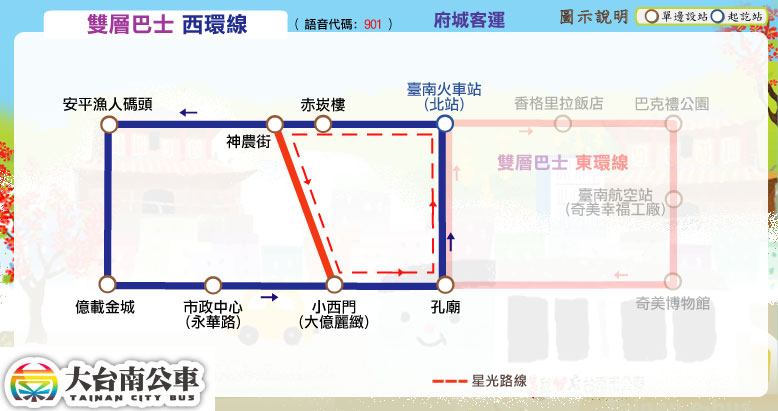
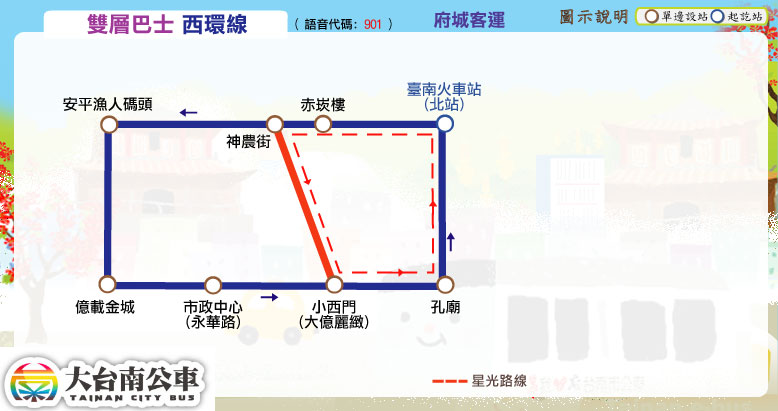
移除路線：雙層巴士東環線 (2019/11/01起停駛)

Changed region(s): [[0.5861, 0.2336, 0.9254, 0.7591], [0.5553, 0.3212, 0.617, 0.6715]]

diff --git a/index.html b/index.html
@@ -17,7 +17,7 @@ html, body {
 }
 </style>
 <script type="text/javascript">
-route_arr = ["0左/0右","1","2","3","5","6","7","9","10","11","14","15","18","19","20","21","33 (關子嶺故宮南院線)","61 (西濱快線)","70 (中華環線)","77","77-1","77-2","88 (府城巡迴線)","99 (安平台江線)","166","綠幹線 (green)","綠1 (g1)","綠2 (g2)","綠3 (g3)","綠4 (g4)","綠5 (g5)","綠6 (g6)","綠7 (g7)","綠10 (g10)","綠11 (g11)","綠12 (g12)","綠13 (g13)","綠14 (g14)","綠15 (g15)","綠16 (g16)","綠17 (g17)","綠20 (g20)","綠20-1 (g20-1)","綠21 (g21)","綠22 (g22)","綠23 (g23)","綠24 (g24)","綠25 (g25)","綠26 (g26)","綠27 (g27)","藍幹線 (blue)","藍1 (b1)","藍2 (b2)","藍3 (b3)","藍10 (b10)","藍11 (b11)","藍12 (b12)","藍13 (b13)","藍20 (b20)","藍21 (b21)","藍22 (b22)","藍23 (b23)","藍24 (b24)","藍25 (b25)","紅幹線 (red)","紅1 (r1)","紅2 (r2)","紅3 (r3)","紅3-1 (r3-1)","紅4 (r4)","紅10 (r10)","紅11 (r11)","紅12 (r12)","紅13 (r13)","紅14 (r14)","橘幹線 (orange)","橘1 (o1)","橘2 (o2)","橘3 (o3)","橘4 (o4)","橘4-1 (o4-1)","橘5 (o5)","橘10 (o10)","橘10-1 (o10-1)","橘11 (o11)","橘11-1 (o11-1)","橘12 (o12)","橘20 (o20)","棕幹線 (brown)","棕1 (br1)","棕2 (br2)","棕3 (br3)","棕3-1 (br3-1)","棕10 (br10)","棕11 (br11)","黃幹線 (yellow)","黃1 (y1)","黃2 (y2)","黃3 (y3)","黃4 (y4)","黃5 (y5)","黃6 (y6)","黃6-1 (y6-1)","黃7 (y7)","黃9 (y9)","黃10 (y10)","黃10-1 (y10-1)","黃11 (y11)","黃11-1 (y11-1)","黃11-2 (y11-2)","黃12 (y12)","黃12-1 (y12-1)","黃12-2 (y12-2)","黃13 (y13)","黃14 (y14)","黃14-1 (y14-1)","黃15 (y15)","黃16 (y16)","黃16-1 (y16-1)","黃20 (y20)","高鐵快捷H31(市府線)","高鐵快捷H62(奇美線)","239","8035","8041C","8042 (沙旗美月世界快線)","8046A","8046B (高南雙城快線)","8050","7207","7208","7210","7214","7229","7407","7408","7410","南科紅線(北環東線)","南科橘線(北環西線)","南科藍線(南環線)","南科綠線(高鐵線)","南科善化線","南科假日線","雙層巴士東環線","雙層巴士西環線","俗女養成記接駁車"];
+route_arr = ["0左/0右","1","2","3","5","6","7","9","10","11","14","15","18","19","20","21","33 (關子嶺故宮南院線)","61 (西濱快線)","70 (中華環線)","77","77-1","77-2","88 (府城巡迴線)","99 (安平台江線)","166","綠幹線 (green)","綠1 (g1)","綠2 (g2)","綠3 (g3)","綠4 (g4)","綠5 (g5)","綠6 (g6)","綠7 (g7)","綠10 (g10)","綠11 (g11)","綠12 (g12)","綠13 (g13)","綠14 (g14)","綠15 (g15)","綠16 (g16)","綠17 (g17)","綠20 (g20)","綠20-1 (g20-1)","綠21 (g21)","綠22 (g22)","綠23 (g23)","綠24 (g24)","綠25 (g25)","綠26 (g26)","綠27 (g27)","藍幹線 (blue)","藍1 (b1)","藍2 (b2)","藍3 (b3)","藍10 (b10)","藍11 (b11)","藍12 (b12)","藍13 (b13)","藍20 (b20)","藍21 (b21)","藍22 (b22)","藍23 (b23)","藍24 (b24)","藍25 (b25)","紅幹線 (red)","紅1 (r1)","紅2 (r2)","紅3 (r3)","紅3-1 (r3-1)","紅4 (r4)","紅10 (r10)","紅11 (r11)","紅12 (r12)","紅13 (r13)","紅14 (r14)","橘幹線 (orange)","橘1 (o1)","橘2 (o2)","橘3 (o3)","橘4 (o4)","橘4-1 (o4-1)","橘5 (o5)","橘10 (o10)","橘10-1 (o10-1)","橘11 (o11)","橘11-1 (o11-1)","橘12 (o12)","橘20 (o20)","棕幹線 (brown)","棕1 (br1)","棕2 (br2)","棕3 (br3)","棕3-1 (br3-1)","棕10 (br10)","棕11 (br11)","黃幹線 (yellow)","黃1 (y1)","黃2 (y2)","黃3 (y3)","黃4 (y4)","黃5 (y5)","黃6 (y6)","黃6-1 (y6-1)","黃7 (y7)","黃9 (y9)","黃10 (y10)","黃10-1 (y10-1)","黃11 (y11)","黃11-1 (y11-1)","黃11-2 (y11-2)","黃12 (y12)","黃12-1 (y12-1)","黃12-2 (y12-2)","黃13 (y13)","黃14 (y14)","黃14-1 (y14-1)","黃15 (y15)","黃16 (y16)","黃16-1 (y16-1)","黃20 (y20)","高鐵快捷H31(市府線)","高鐵快捷H62(奇美線)","239","8035","8041C","8042 (沙旗美月世界快線)","8046A","8046B (高南雙城快線)","8050","7207","7208","7210","7214","7229","7407","7408","7410","南科紅線(北環東線)","南科橘線(北環西線)","南科藍線(南環線)","南科綠線(高鐵線)","南科善化線","南科假日線","雙層巴士西環線","俗女養成記接駁車"];
 function search_route(route_str){
 	isFinished = false;
 	route_str = route_str.split(' ')[0];
@@ -55,7 +55,6 @@ function search_route(route_str){
 			else if(route_str=='南科綠線(高鐵線)') route = 'STSP/STSP_green';
 			else if(route_str=='南科善化線') route = 'STSP/STSP_Shanhua';
 			else if(route_str=='南科假日線') route = 'STSP/STSP_holiday';
-			else if(route_str=='雙層巴士東環線') route = 'sightseeing/eastern';
 			else if(route_str=='雙層巴士西環線') route = 'sightseeing/western';
 			else if(route_str=='俗女養成記接駁車') route = 'tourist/the_making_of_an_ordinary_woman'
 			else if(!isNaN(route_str) && route_str.length<=3 || route_str=='77-1' || route_str=='77-2') route = 'urban/' + route_str; // urban bus

diff --git a/STSP/STSP_green.html b/STSP/STSP_green.html
@@ -23,7 +23,7 @@
 <script type="text/javascript">
 	block_header();
 	block_route_map(null);
-	block_route_info(route_interval,'科技之星交通','約1小時一班<br />官方最新時刻表：<a href="https://www.stsp.gov.tw/web/WEB/Jsp/Page/cindex.jsp?frontTarget=DEFAULT&thisRootID=693" target="_blank">南科管理局</a>','免費','http://ibus.stsp.gov.tw/PAGE/RouteQuery/',[['平日','normal'],['假日','holiday']]);
+	block_route_info(route_interval,'科技之星交通','約1小時一班<br />官方最新時刻表：<a href="https://www.stsp.gov.tw/web/WEB/Jsp/Page/cindex.jsp?frontTarget=DEFAULT&thisRootID=693" target="_blank">南科管理局</a>','免費','http://ibus.stsp.gov.tw/PAGE/RouteQuery/',[['平日','normal'],['收假上班前一日','holiday']]);
 	document.write('<div id="wrapper3">\
 	<a name="fare"></a>\
 	<div id="faretable" class="container">\
@@ -43,7 +43,7 @@
 		</div>\
 	</div>\
 </div>');
-	block_multiple_time_schedule( [['平日班表','normal'],['假日班表','holiday']], '<h1><span style="color: red;">假日班表僅行駛收假上班前一日</span></h1>\
+	block_multiple_time_schedule( [['平日班表','normal'],['<span style="color:red;">收假上班前一日</span>','holiday']], '<h3><span style="color: red;">收假上班前一日班表</span>：一般周末僅於周日行駛；若遇連續假日，則僅行駛最後一天假日</h3>\
 		<h3>「<span style="color: green;">綠</span>」表示綠能班次，以電動車行駛平面道路(高鐵橋下道路)</h3>\
 		<center><div style="text-align: left; width: 520px; border:solid 1px; margin-top: 30px; background-color: #BBFFBB; padding: 15px;"><h3>◎巡巴相關問題詢問專線：<span style="color: red;">0800-523-550</span></h3><h3>\
 		◎如需預約搭乘請於<span style="color: blue;">欲搭乘班次1小時前</span>，撥打免付費專線預約</div></center>');

diff --git a/STSP/STSP_holiday.html b/STSP/STSP_holiday.html
@@ -20,7 +20,7 @@
 <script type="text/javascript">
 	block_header();
 	block_route_map(null);
-	block_route_info(route_interval,'科技之星交通','<br />官方最新時刻表：<a href="https://www.stsp.gov.tw/web/WEB/Jsp/Page/cindex.jsp?frontTarget=DEFAULT&thisRootID=693" target="_blank">南科管理局</a>','免費','http://ibus.stsp.gov.tw/PAGE/RouteQuery/');
+	block_route_info(route_interval,'科技之星交通','僅收假上班前一日行駛<br />官方最新時刻表：<a href="https://www.stsp.gov.tw/web/WEB/Jsp/Page/cindex.jsp?frontTarget=DEFAULT&thisRootID=693" target="_blank">南科管理局</a>','免費','http://ibus.stsp.gov.tw/PAGE/RouteQuery/');
 	document.write('<div id="wrapper3">\
 	<a name="fare"></a>\
 	<div id="faretable" class="container">\
@@ -37,7 +37,7 @@
 		</div>\
 	</div>\
 </div>');
-	block_time_schedule_diffreturn('臺鐵南科站 → 社區中心 → 臺鐵南科站','','<h1><span style="color:red;">僅收假上班前一日行駛</span></h1>')
+	block_time_schedule_diffreturn('臺鐵南科站 → 社區中心 → 臺鐵南科站','','<h1><span style="color:red;">僅收假上班前一日行駛</span></h1><h3>一般周末僅於周日行駛；若遇連續假日，則僅行駛最後一天假日</h3>')
 	block_transfer(transfer_nanke_railway_station + transfer_NNKIEH);
 	block_copyright();
 </script>

diff --git a/tools/route_infor.js b/tools/route_infor.js
@@ -154,5 +154,4 @@ STSP_blue_route = '臺鐵南科站 ─ 聯電 ─ Park 17商場　<div class="su
 STSP_Shanhua_route = '臺鐵善化站 ─ 台積電 ─ Park 17商場　<div class="sub_title">南科巡迴巴士善化線</div>';
 STSP_holiday_route = '臺鐵南科站 ─ 社區中心 ─ 臺鐵南科站　<div class="sub_title">南科巡迴巴士假日加班車</div>';
 
-sightseeing_eastern_route = '臺南火車站 ─ 奇美博物館 ─ 臺南火車站<br /><div class="sub_title">雙層巴士東環線</div>';
 sightseeing_western_route = '臺南火車站 ─ 安平漁人碼頭 ─ 臺南火車站<br /><div class="sub_title">雙層巴士西環線</div>';

diff --git a/overview.html b/overview.html
@@ -68,7 +68,6 @@ function get_transfer_info(bus_stop){
 		+ get_button_string('highway', '8046A', '8046A')
 		+ get_button_string('highway', '8046B', '8046B')
 		+ get_button_string('highway', '8050', '8050')
-		+ get_button_string('sightseeing', 'eastern', '東環線')
 		+ get_button_string('sightseeing', 'western', '西環線')
 		+ '</table>\
 		<h1 align="center">臺南市區</h1>\

diff --git a/sightseeing/index.html b/sightseeing/index.html
@@ -15,10 +15,6 @@
 <table id="bg_table">
 	<script type="text/javascript">
 		document.write('<tr>\
-			<td><a href="eastern.html" class="touristButton">東環線</a></td>\
-			<td>'+ sightseeing_eastern_route +'</td>\
-		</tr>\
-		<tr>\
 			<td><a href="western.html" class="touristButton">西環線</a></td>\
 			<td>'+ sightseeing_western_route +'</td>\
 		</tr>');

diff --git a/TainanBusMap/show_map.php b/TainanBusMap/show_map.php
@@ -61,8 +61,7 @@
 			$ch_name = '南科巡迴巴士'.$ch_route_name;
 			break;
 		case 'sightseeing':
-			if($str_sec[1]=='eastern') $ch_route_name = '東環線';
-			else if($str_sec[1]=='western') $ch_route_name = '西環線';
+			if($str_sec[1]=='western') $ch_route_name = '西環線';
 			$ch_name = '臺南雙層巴士'.$ch_route_name;
 			break;
 		default:
